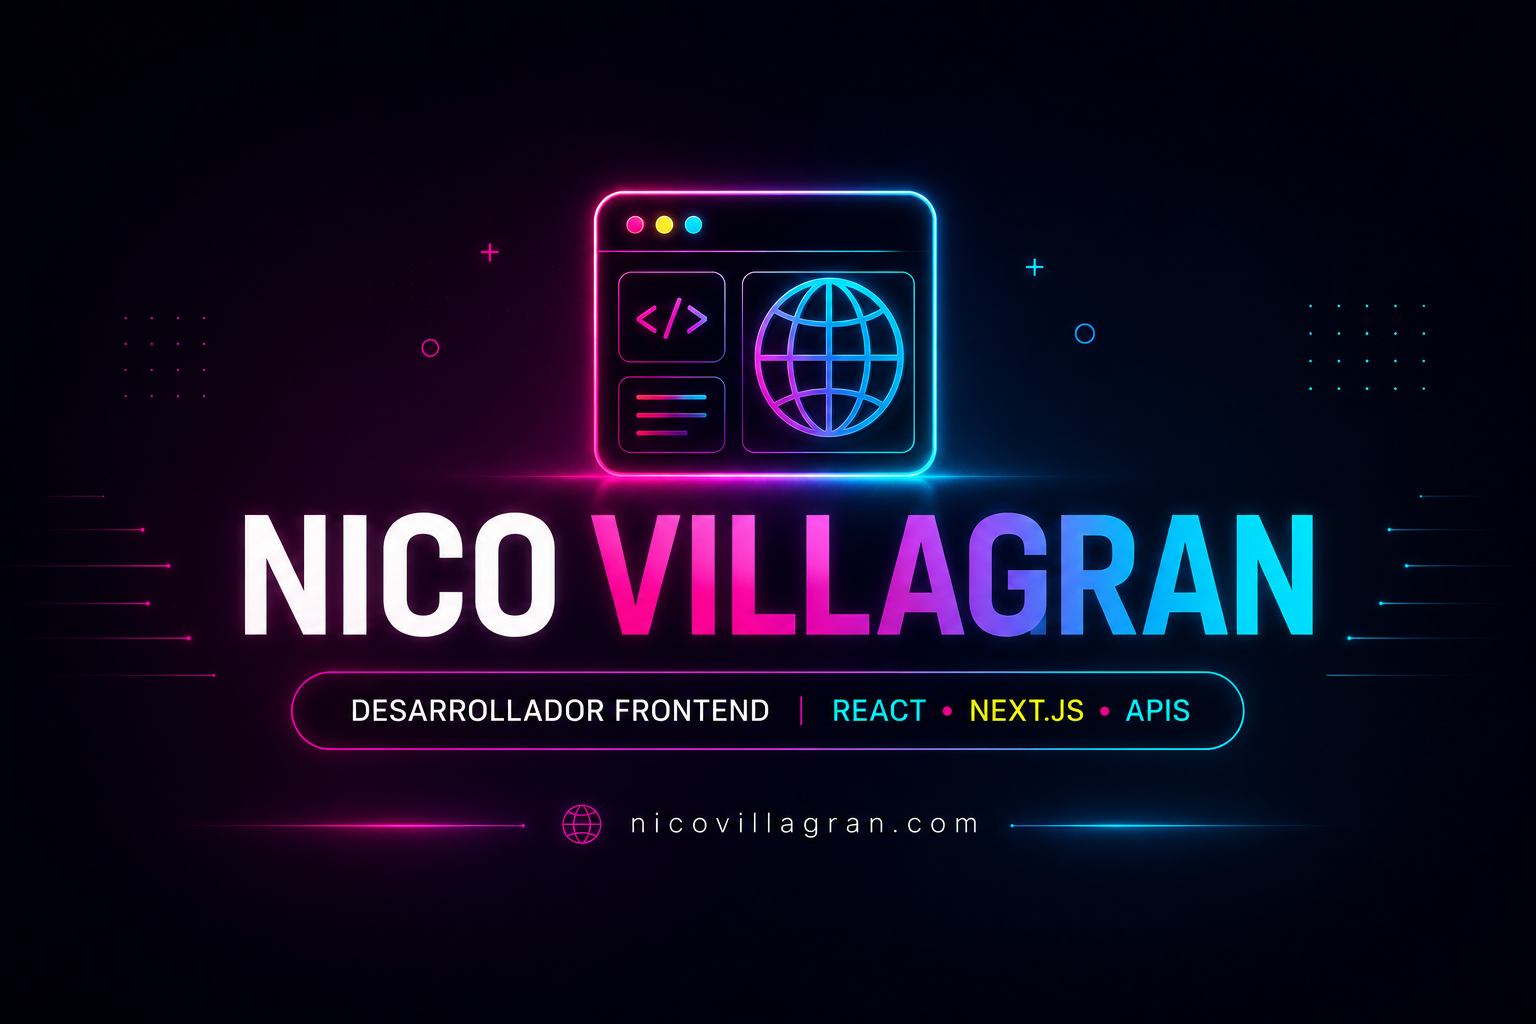
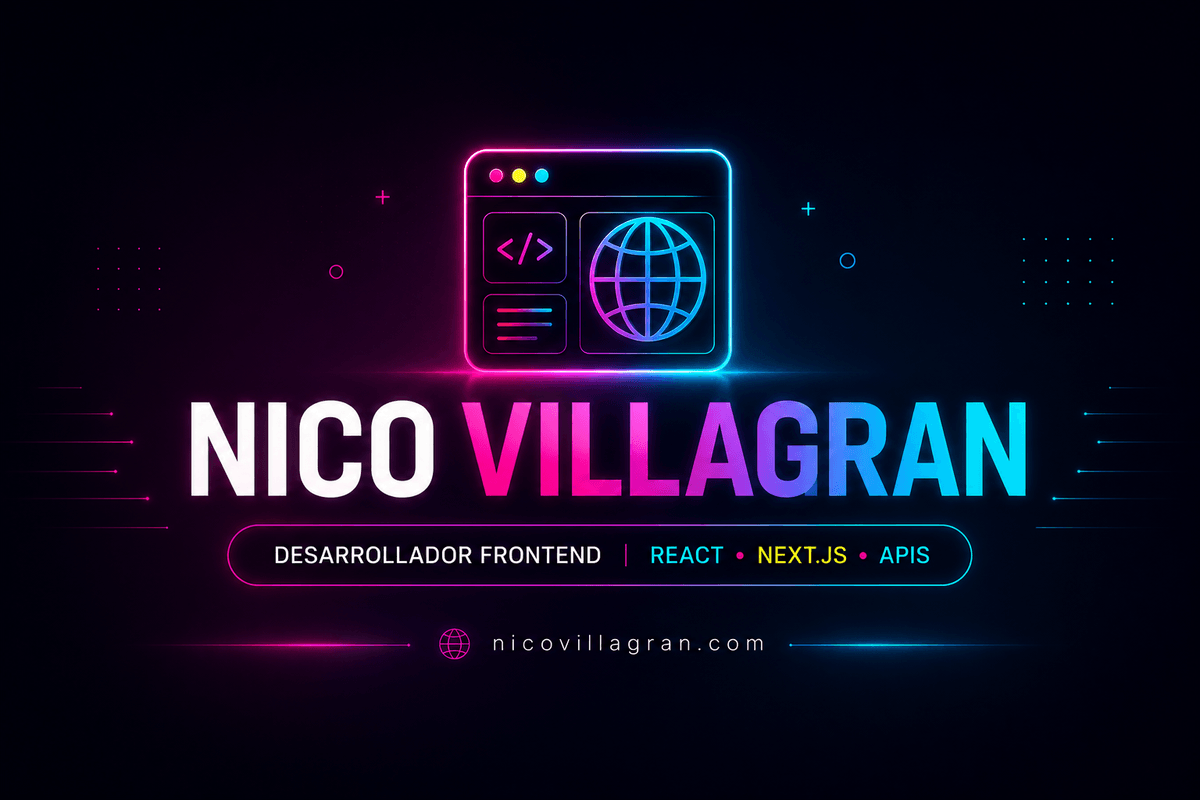
chore(00-hosting): aligerar los og-image, sanear el sitemap y poner el README al día
Las dos imágenes de Open Graph pesaban 1,25 y 1,40 MB, por encima del umbral
que WhatsApp acepta para renderizar el preview — justo el canal por el que se
comparte un portfolio. Reescaladas a sus medidas declaradas y recomprimidas
con paleta: 248 y 280 kB sin banding visible en los degradados.

Además ninguna medía lo que decía su meta: la landscape era 1731x909 con
1200x630 declarado, y la "square" 1536x1024 con 1200x1200. Ahora la landscape
sí es 1200x630 y la otra se declara por lo que es, 1200x800 — recortarla a
cuadrado habría partido el texto por los lados. El nombre del archivo se
queda como está para no invalidar la caché de los scrapers.

sitemap.xml recupera la declaración XML que exige el protocolo y actualiza
lastmod.

README: el conteo de tests estaba en 20 y son 26, y el árbol de estructura
daba usePortfolioData.js como el hook de la app cuando el que importa App.jsx
es usePortfolioDataWithFallback.js. Se documentan también el snapshot, el
script que lo genera y el orden obligatorio de desplegar la API antes del build.

Changed region(s): [[0.4008, 0.1875, 0.4317, 0.25], [0.6475, 0.6875, 0.6783, 0.7188], [0.4933, 0.2812, 0.5242, 0.3125]]

diff --git a/00-portfolio/00-hosting/index.html b/00-portfolio/00-hosting/index.html
@@ -22,10 +22,13 @@
   <meta property="og:image:height" content="630">
   <meta property="og:image:type" content="image/png">
 
-  <!-- Imagen (cuadrado para WhatsApp/móvil) -->
+  <!-- Imagen secundaria, más alta, para el preview de móvil.
+       Las medidas declaradas tienen que coincidir con las reales del archivo:
+       el scraper reserva el hueco del preview con estos números ANTES de bajar
+       la imagen, así que si mienten el recorte lo decide él. -->
   <meta property="og:image" content="https://nico-villagran.com/og-image-square.png">
   <meta property="og:image:width" content="1200">
-  <meta property="og:image:height" content="1200">
+  <meta property="og:image:height" content="800">
   <meta property="og:image:type" content="image/png">
 
   <meta property="og:url" content="https://nico-villagran.com">

diff --git a/00-portfolio/00-hosting/README.md b/00-portfolio/00-hosting/README.md
@@ -63,19 +63,23 @@ El `.env` no se commitea (está en `.gitignore`); usa `.env.example` como planti
 
 ### Scripts
 
-| Script           | Descripción                              |
-| ---------------- | ---------------------------------------- |
-| `pnpm dev`       | Servidor de desarrollo con HMR           |
-| `pnpm build`     | Build de producción en `dist/`           |
-| `pnpm preview`   | Sirve el build de producción localmente  |
-| `pnpm lint`      | Linter sobre todo el proyecto            |
-| `pnpm test`      | Tests con Vitest                         |
+| Script           | Descripción                                        |
+| ---------------- | -------------------------------------------------- |
+| `pnpm dev`       | Servidor de desarrollo con HMR                     |
+| `pnpm build`     | Genera el snapshot y compila a `dist/`             |
+| `pnpm snapshot`  | Solo regenera `public/data-snapshot.json`          |
+| `pnpm preview`   | Sirve el build de producción localmente            |
+| `pnpm lint`      | Linter sobre todo el proyecto                      |
+| `pnpm test`      | Tests con Vitest (en watch; `--run` para una pasada) |
 
 ---
 
 ## Estructura
 
 ```
+scripts/
+└── generate-snapshot.js     Congela la API en public/data-snapshot.json (build)
+
 src/
 ├── App.jsx                  Composición raíz: tema + datos + layout
 ├── main.jsx                 Punto de entrada
@@ -88,10 +92,14 @@ src/
 │   ├── Footer/              Pie de página
 │   └── ErrorBoundary/       Captura de errores de render
 ├── hooks/
-│   └── usePortfolioData.js  Carga de projects + profile (+ tests)
+│   ├── usePortfolioDataWithFallback.js  El que usa la app: API + snapshot
+│   └── usePortfolioData.js  Versión original sin fallback (+ tests)
 ├── schemas/                 Schemas Zod de la API
 └── data/                    Claves de localStorage centralizadas
 ```
+
+Los dos hooks conviven a propósito: el original se conserva como término de
+comparación para ver qué añade exactamente la red de seguridad.
 
 ---
 
@@ -105,23 +113,40 @@ https://00-portfolio-projects-api.vercel.app
   GET /profile    — perfil (rol, ubicación, stack, intro)
 ```
 
-El hook `usePortfolioData` pide ambos endpoints en paralelo con `Promise.all`,
-valida cada respuesta con Zod, cancela las peticiones al desmontar mediante
-`AbortController` y reporta en el error qué endpoint falló y con qué status.
+El hook `usePortfolioDataWithFallback` pide ambos endpoints en paralelo con
+`Promise.all`, valida cada respuesta con Zod, cancela las peticiones al desmontar
+mediante `AbortController` y reporta en el error qué endpoint falló y con qué
+status.
+
+### Red de seguridad
+
+Si la API no responde en 4s, devuelve un error HTTP, se cae la red o el JSON no
+pasa el schema, el hook recurre a `data-snapshot.json`: una copia de la respuesta
+de la API congelada durante el build por `scripts/generate-snapshot.js` y servida
+desde el mismo host que la app, así que si la página cargó el snapshot está.
+
+El snapshot también se valida con Zod — un snapshot corrupto da error en vez de
+pintar basura — y el hook devuelve `stale: true` cuando los datos vienen de ahí.
+Si la API está caída en el momento del build, el script avisa pero **no rompe el
+build**: conserva el snapshot anterior.
+
+> Como el snapshot se hornea contra la API **en vivo**, hay que desplegar
+> cualquier cambio de la API *antes* de correr `pnpm build`. Al revés, el
+> snapshot se queda con los datos viejos.
 
 ---
 
 ## Testing
 
-20 tests con Vitest + Testing Library:
+26 tests con Vitest + Testing Library:
 
-- `usePortfolioData.test.js` — estados loading / success / error HTTP y
+- `usePortfolioData.test.js` (4) — estados loading / success / error HTTP y
   cancelación al desmontar.
-- `ProjectCard.test.jsx` — renderizado de imagen, badges, stack, enlaces y
-  casos negativos.
+- `ProjectCard.test.jsx` (22) — renderizado de imagen, badges, stack agrupado,
+  enlaces y casos negativos.
 
 ```bash
-pnpm test
+pnpm test -- --run   # una pasada; `pnpm test` a secas se queda en watch
 ```
 
 ---
@@ -129,8 +154,11 @@ pnpm test
 ## Deploy
 
 El build (`pnpm build`) genera `dist/`, pensado para hosting estático Apache.
-El `.htaccess` en `public/` incluye el `ErrorDocument` de la página 404 custom y
-se copia al build automáticamente.
+Todo lo de `public/` se copia al build automáticamente: el `.htaccess` (con el
+`ErrorDocument` de la 404 custom y las cabeceras de caché), el `sitemap.xml`, el
+`robots.txt` y el `data-snapshot.json` recién horneado.
+
+Subir el contenido de `dist/` a la raíz del hosting.
 
 ---
 
